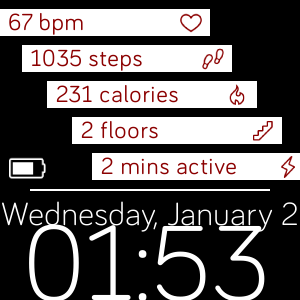
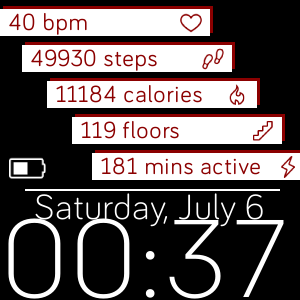
Update to 1.7 with slight enhancements

diff --git a/app/index.js b/app/index.js
@@ -19,11 +19,11 @@ const mainStepsTaken = document.getElementById("mainStepsTaken");
 const mainCaloriesBurned = document.getElementById("mainCaloriesBurned");
 const mainElevationClimbed = document.getElementById("mainElevationClimbed");
 const mainActiveTime = document.getElementById("mainActiveTime");
-const batteryDisplay = document.getElementById("batteryDisplay");
+const batteryDisplayText = document.getElementById("batteryDisplayText");
 const batteryIcon = document.getElementById("batteryIcon");
 
 // Set the z-Index for the Battery section
-batteryDisplay.layer = 2;
+batteryDisplayText.layer = 2;
 batteryIcon.layer = 1;
 
 // Update the Clockface Elements every tick based on the current time
@@ -39,10 +39,11 @@ clock.ontick = (evt) => {
   //Format the Display in our Text Areas
   mainClockTime.text = `${hours}:${mins}`;
   mainDateTimeDay.text = `${dayOfWeek}, ${monthName} ${todayDate}`;
-  mainStepsTaken.text = `${today.local.steps} steps`;
-  mainCaloriesBurned.text = `${today.local.calories} calories`;
-  mainElevationClimbed.text = `${today.local.elevationGain} floors`;
-  mainActiveTime.text = `${today.local.activeMinutes} mins active`;
+  mainStepsTaken.text = `${util.checkIfDigit(today.local.steps)} steps`;
+  mainCaloriesBurned.text = `${util.checkIfDigit(today.local.calories)} calories`;
+  mainElevationClimbed.text = `${util.checkIfDigit(today.local.elevationGain)} floors`;
+  mainActiveTime.text = `${util.checkIfDigit(today.local.activeMinutes)} mins active`;
+  //util.testLogging(today.local);
   doBatteryReading();
 };
 
@@ -51,25 +52,29 @@ let hrm = new HeartRateSensor();
 let hasHeartRateAreaBeenMoved = false;
 
 function doBatteryReading(){
-  let currentBatteryLevel = battery.calculateBatteryPercentage().level;
-  batteryDisplay.text = `${currentBatteryLevel}%`;
-  batteryDisplay.style.fill = `${battery.calculateBatteryPercentage().color}`;
-  batteryDisplay.style.display = `${battery.calculateBatteryPercentage().display}`;
+  let batteryStats = battery.calculateBatteryPercentage();
+  let currentBatteryLevel = batteryStats.level;
+  batteryDisplayText.text = `${currentBatteryLevel}%`;
+  batteryDisplayText.style.fill = `${batteryStats.color}`;
+  batteryDisplayText.style.display = `${batteryStats.textDisplay}`;
   batteryIcon.href = `${battery.determineBatteryIcon()}`;
+  batteryIcon.style.display = `${batteryStats.iconDisplay}`;
   
   //Set the top bar not to be overlapped by Fitbit's Default Bar
-  if(currentBatteryLevel > 17 && hasHeartRateAreaBeenMoved){
-    //heartRateGroup.groupTransform.translate.x = 0;
+  let batteryNotDisplayed = currentBatteryLevel > 17 && hasHeartRateAreaBeenMoved && !batteryStats.isDeviceCharging;
+  //Battery has to be less than 17% or charging
+  let batteryIsDisplayed = (currentBatteryLevel < 17 || batteryStats.isDeviceCharging) && !hasHeartRateAreaBeenMoved;
+  
+  if(batteryNotDisplayed){
     heartRateGroup.animate("disable");
     hasHeartRateAreaBeenMoved = false;
-  } else if(currentBatteryLevel < 17 && !hasHeartRateAreaBeenMoved) {
-    //heartRateGroup.groupTransform.translate.x = 47;
+  } else if(batteryIsDisplayed) {
     heartRateGroup.animate("enable");
     hasHeartRateAreaBeenMoved = true;
   }
 };
 
-// Regonize if user has the Device equipped
+// Recgonize if user has the Device equipped
 let body = new BodyPresenceSensor();
 body.onreading = () => {
   if (!body.present) {
@@ -77,6 +82,7 @@ body.onreading = () => {
     hrm.stop();
   } else {
     hrm.start();
+    mainHeartRate.text = `${hrm.heartRate} bpm`;
   }
 };
 body.start();

diff --git a/app/battery.js b/app/battery.js
@@ -1,26 +1,37 @@
 import { battery } from "power";
+import { charger } from "power";
 import * as appConstants from "../common/constants";
 
 const appSettings = appConstants.globalAppSettings;
 const batteryLowPercent = 20;
 
 export function calculateBatteryPercentage(){
+  //Disconnected is not charging
+  //Connected and Charging are true
+  let isDeviceCharging = charger.connected;
   let batteryValues = {
     level: battery.chargeLevel,
-    color: "",
-    display: ""
+    color: appSettings.backgroundColor,
+    textDisplay: "",
+    iconDisplay: "",
+    isDeviceCharging: isDeviceCharging,
   };
   const level = battery.chargeLevel;
   
-  if(level == 100){
-    batteryValues.color = appSettings.subTextColor;
-    batteryValues.display = `inline`;
-  } else if(level < batteryLowPercent){
-    batteryValues.color = appSettings.mainTextColor;
-    batteryValues.display = `inline`;
+  if (!isDeviceCharging){
+    batteryValues.batteryDisplay = `inline`;
+    if(level == 100){
+      batteryValues.color = appSettings.subTextColor;
+      batteryValues.textDisplay = `inline`;
+    } else if(level < batteryLowPercent){
+      batteryValues.color = appSettings.mainTextColor;
+      batteryValues.textDisplay = `inline`;
+    } else {
+      batteryValues.textDisplay = `none`;
+    }
   } else {
-    batteryValues.color = appSettings.backgroundColor;
-    batteryValues.display = `none`;
+    batteryValues.textDisplay = `none`;
+    batteryValues.iconDisplay = `none`;
   }
   
   return batteryValues;
@@ -52,7 +63,3 @@ export function determineBatteryIcon(){
   
   return imageFolderPath + batteryIconType + imageFileType;
 }
-
-export function moveBPMDisplayArea(){
-  
-};

diff --git a/resources/styles.css b/resources/styles.css
@@ -4,20 +4,20 @@
 
 #mainClockTime {
   font-size: 110;
-  font-family: System-Light;
+  font-family: Colfax-Light;
   text-length: 10;
   text-anchor: middle;
   x: 50%;
-  y: 100%;
+  y: 99%;
 }
 
 #mainDateTimeDay{
-  font-size: 33;
+  font-size: 36;
   font-family: System-Light;
   text-length: 30;
   text-anchor: middle;
   x: 50%;
-  y: 75%;
+  y: 73%;
 }
 
 .mainText{
@@ -26,8 +26,8 @@
 
 #dateDivider {
   height: 2;
-  width: 80%;
-  x:30;
+  width: 85%;
+  x:25;
   y:63%;
 }
 
@@ -48,6 +48,11 @@
 
 .whiteBar {
   fill: white;
+  width: 70%;
+  height: 27;
+}
+.redOutline {
+  fill: darkred;
   width: 70%;
   height: 27;
 }
@@ -72,7 +77,7 @@
   height: 37;
   width: 37;
 }
-#batteryDisplay{
+#batteryDisplayText{
   font-size: 10;
   font-family: System-Bold;
   text-length: 5;

diff --git a/common/utils.js b/common/utils.js
@@ -53,3 +53,18 @@ export function formatHoursDisplay(hours){
     return zeroPad(hours);
   }
 }
+
+export function checkIfDigit(expectedNumber){
+  if(typeof(expectedNumber) !== 'number')
+    return `--`;
+  else
+    return expectedNumber;
+}
+
+export function testLogging(totalItemsObject){
+  console.log(`---`);
+  console.log(totalItemsObject.steps);
+  console.log(totalItemsObject.calories);
+  console.log(totalItemsObject.elevationGain);
+  console.log(totalItemsObject.activeMinutes);
+}

diff --git a/README.md b/README.md
@@ -8,6 +8,16 @@ Still learning how to do these things, and need to get way better at HTML+CSS de
 If you'd like to install the watchface for yourself, you can use the [gallery link here](https://gam.fitbit.com/gallery/clock/54750558-52f6-49c5-9d0d-8f1ffa509a6d)!
 
 ### Version Changelog  
+#### 1.7.1 - 7/6/19  
+- Forgot to use colons on an object in battery.js file...
+
+#### 1.7 - 7/5/19  
+- Handle User Stats if they display as undefined
+- Add in recognition for when device is off of a user's wrist when charging
+- not-really-refactoring, I'm bad at logic sometimes...
+- Red Shadow Outline for better color distinguishing
+- Changed Clock Font out of Taste
+
 #### 1.6 - 1/2/19  
 - Adjust battery icon tolerances for less stressful charge induction
 - Add in recognition for when device is off of a user's wrist
@@ -30,8 +40,8 @@ If you'd like to install the watchface for yourself, you can use the [gallery li
 - Make refresh less taxing on application
 - More code modularity for various sections
 - Display better on Ionic Devices
-- Handle any undefined errors if networking stuff goes down like on 7/2/19
-- Hide Battery display if device is charging state and do not trigger animation
+- ~Handle any undefined errors if networking stuff goes down like on 7/2/19~
+- ~Hide Battery display if device is charging state and do not trigger animation~
 - ~~Add in animation when top bpm bar moves~~
 - ~~Make the text larger more areas proportionately~~
 
